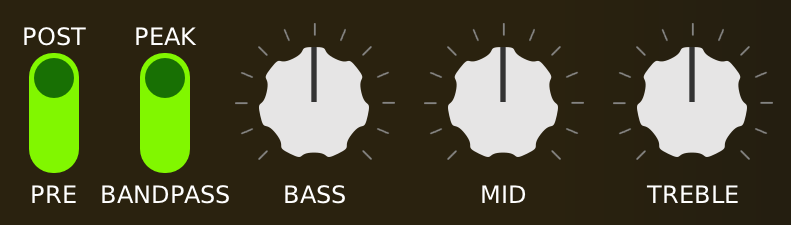
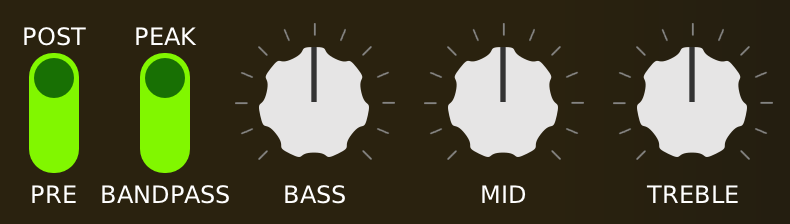
force readme images to use correct scaling

diff --git a/README.md b/README.md
@@ -34,7 +34,7 @@ AIDA-X comes built-in with a single Amp Model and Cabinet IR.
 Click on the related filename to open a file browser and load a different file.  
 The little icon on the left side allows to turn on/off the Amp Model and Cabinet IR.
 
-![screenshot](docs/Screenshot-files.png "Screenshot-files")
+<img height="91" alt="image" src="https://raw.githubusercontent.com/AidaDSP/aida-x/main/docs/Screenshot-files.png">
 
 A quick model pack can be downloaded from [our Google Drive folder](https://drive.google.com/drive/folders/18MwNhuo9fjK8hlne6SAdhpGtL4bWsVz-).
 
@@ -51,26 +51,26 @@ Integrates with the host provided bypass controls where possible.
 
 Pre-Gain attenuates the input signal before sending it to the Amp Model.
 
-<img width="112" alt="image" src="https://raw.githubusercontent.com/AidaDSP/aida-x/main/docs/Screenshot-params-1.png">
+<img height="112" alt="image" src="https://raw.githubusercontent.com/AidaDSP/aida-x/main/docs/Screenshot-params-1.png">
 
 2. EQ tone controls (part 1)
 
 Pre/Post switch changes the position of the tone controls, either running before or after the Amp Model.
 
-![screenshot](docs/Screenshot-params-2.png "Screenshot-params-2")
+<img height="112" alt="image" src="https://raw.githubusercontent.com/AidaDSP/aida-x/main/docs/Screenshot-params-2.png">
 
 3. EQ tone controls (part 2)
 
 Extra EQ related controls.  
 Note: These will eventually be used for dynamic Amp Models, where the 2 parameters directly map into the operation of Model (the so-called "conditioned models").  
 
-![screenshot](docs/Screenshot-params-3.png "Screenshot-params-3")
+<img height="112" alt="image" src="https://raw.githubusercontent.com/AidaDSP/aida-x/main/docs/Screenshot-params-3.png">
 
 4. Master Gain
 
 For a final gain compensation, does not apply to the bypassed signal.
 
-![screenshot](docs/Screenshot-params-4.png "Screenshot-params-4")
+<img height="112" alt="image" src="https://raw.githubusercontent.com/AidaDSP/aida-x/main/docs/Screenshot-params-4.png">
 
 ### Technical Details ###
 
